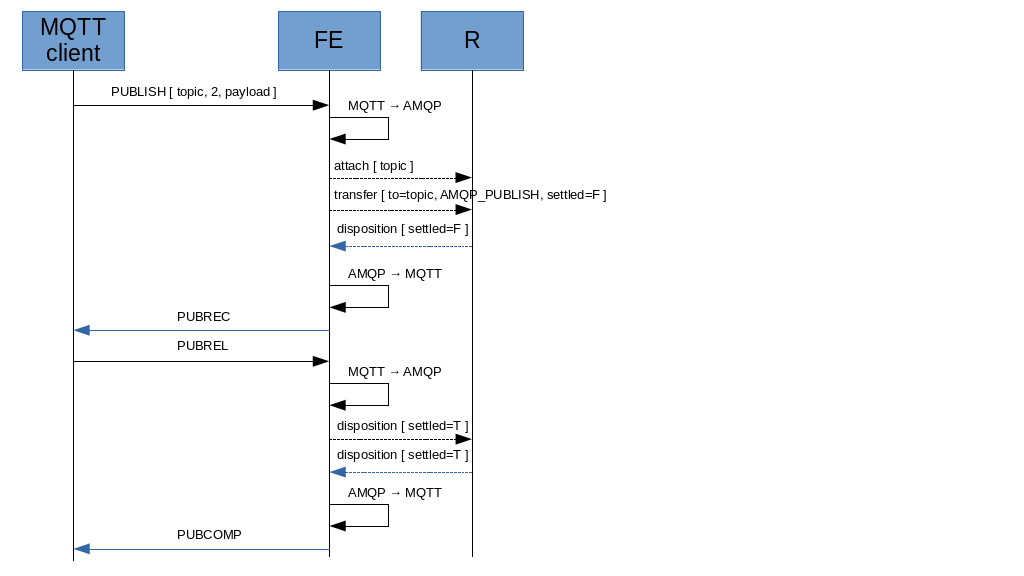
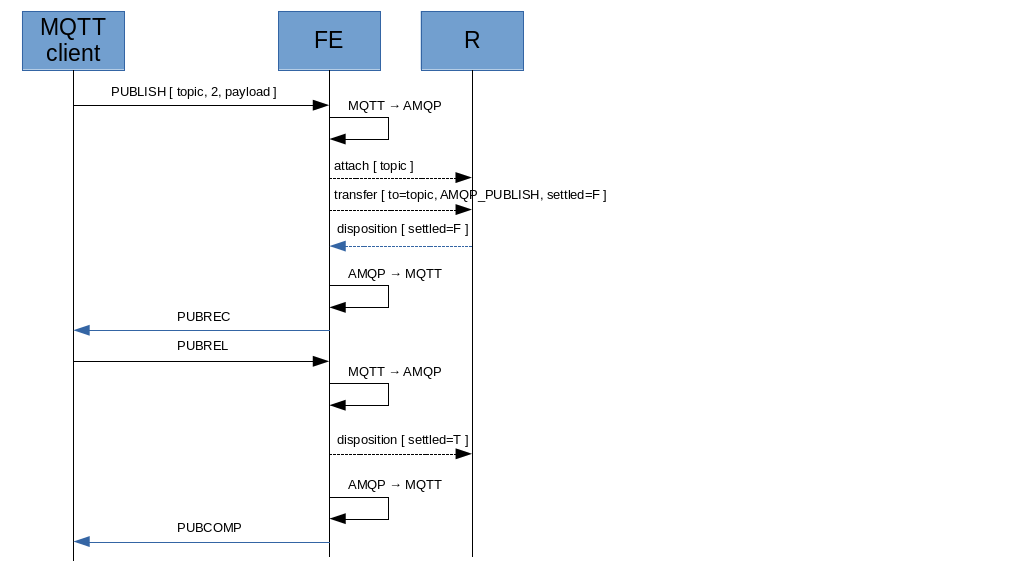
Fixed rcv-settle-mode for link used by FE for sending QoS level 2 messages Explicit "durable" header field to be QoS level > 0 for publish and will messages Fixed QoS level 0 received messages from AMQP (always using AT_LEAST_ONCE)

Changed region(s): [[0.3125, 0.7188, 0.4688, 0.9375], [0.0625, 0.9062, 0.3125, 0.9688]]

diff --git a/mqtt-over-amqp/docs/operations_publish.md b/mqtt-over-amqp/docs/operations_publish.md
@@ -9,9 +9,14 @@ Actually two links are attached :
 * one link shared between messages published with QoS levels 0 and 1.
 * one link only for messages published with QoS 2, because recovering link could be needed.
 
-Both links are attached with :
+The link for QoS levels 0 and 1 is attached with :
 
 * rcv-settle-mode : first (0)
+* snd-settle-mode : unsettled (0)
+
+The link for QoS level 2 is attached with :
+
+* rcv-settle-mode : second (1)
 * snd-settle-mode : unsettled (0)
 
 The MQTT client sends _PUBLISH_ message to FE which maps the message to the following AMQP messages.
@@ -24,7 +29,7 @@ The MQTT client sends _PUBLISH_ message to FE which maps the message to the foll
 | message-id | system property | MessageId | MQTT PUBLISH |
 | x-retain | message annotation | Retain flag | MQTT PUBLISH |
 | x-qos | message annotation | QoS level | MQTT PUBLISH |
-| durable | header | QoS level | MQTT PUBLISH |
+| durable | header | QoS level > 0 | MQTT PUBLISH |
 | to | system property | topic | MQTT PUBLISH |
 | delivery-count | header | DUP flag | MQTT PUBLISH |
 | payload | Data section | Message payload | MQTT PUBLISH |
@@ -55,13 +60,13 @@ A timeout could be used to detect links inactivity for detaching them.
 
 ## From AMQP network to MQTT client
 
-The FE has an attached link with receiver role to the unique client address $mqtt.to.[client-id] where all published messages are conveyed (see "Connection").
+The FE has an attached link with receiver role to the unique client address $mqtt.to.[client-id] where all published messages are conveyed (see "Connection"). This link has QoS as AT_LEAST_ONCE so in all cases, the messages received from the AMQP network is "unsettled" (even for QoS level 0).
 
 The FE receives published messages as _AMQP_PUBLISH_ messages (see previous paragraph).
 
 ### QoS level 0 (AT_MOST_ONCE)
 
-For QoS level 0, message is published as "settled" and no acknowledge is needed.
+For QoS level 0, message is published as "unsettled" but the FE can sends immediately the disposition (with "settled") before sending the _PUBLISH_ to the remote MQTT client and without waiting for any acknowledge (of course, due to QoS level 0).
 
 ![Publish QoS 0](../images/12_publish_qos_0_amqp.png)
 

diff --git a/mqtt-over-amqp/docs/operations_connection.md b/mqtt-over-amqp/docs/operations_connection.md
@@ -30,7 +30,7 @@ The MQTT client sends a _CONNECT_ message to the FE which extracts "will" inform
 | subject | system property | "will" | - |
 | x-retain | message annotation | will retain flag | MQTT CONNECT |
 | x-qos | message annotation | will QoS level | MQTT CONNECT |
-| durable | header | will QoS level | MQTT CONNECT |
+| durable | header | will QoS level > 0 | MQTT CONNECT |
 | to | system property | will topic | MQTT CONNECT |
 | payload | Data section | will message | MQTT CONNECT |
 
